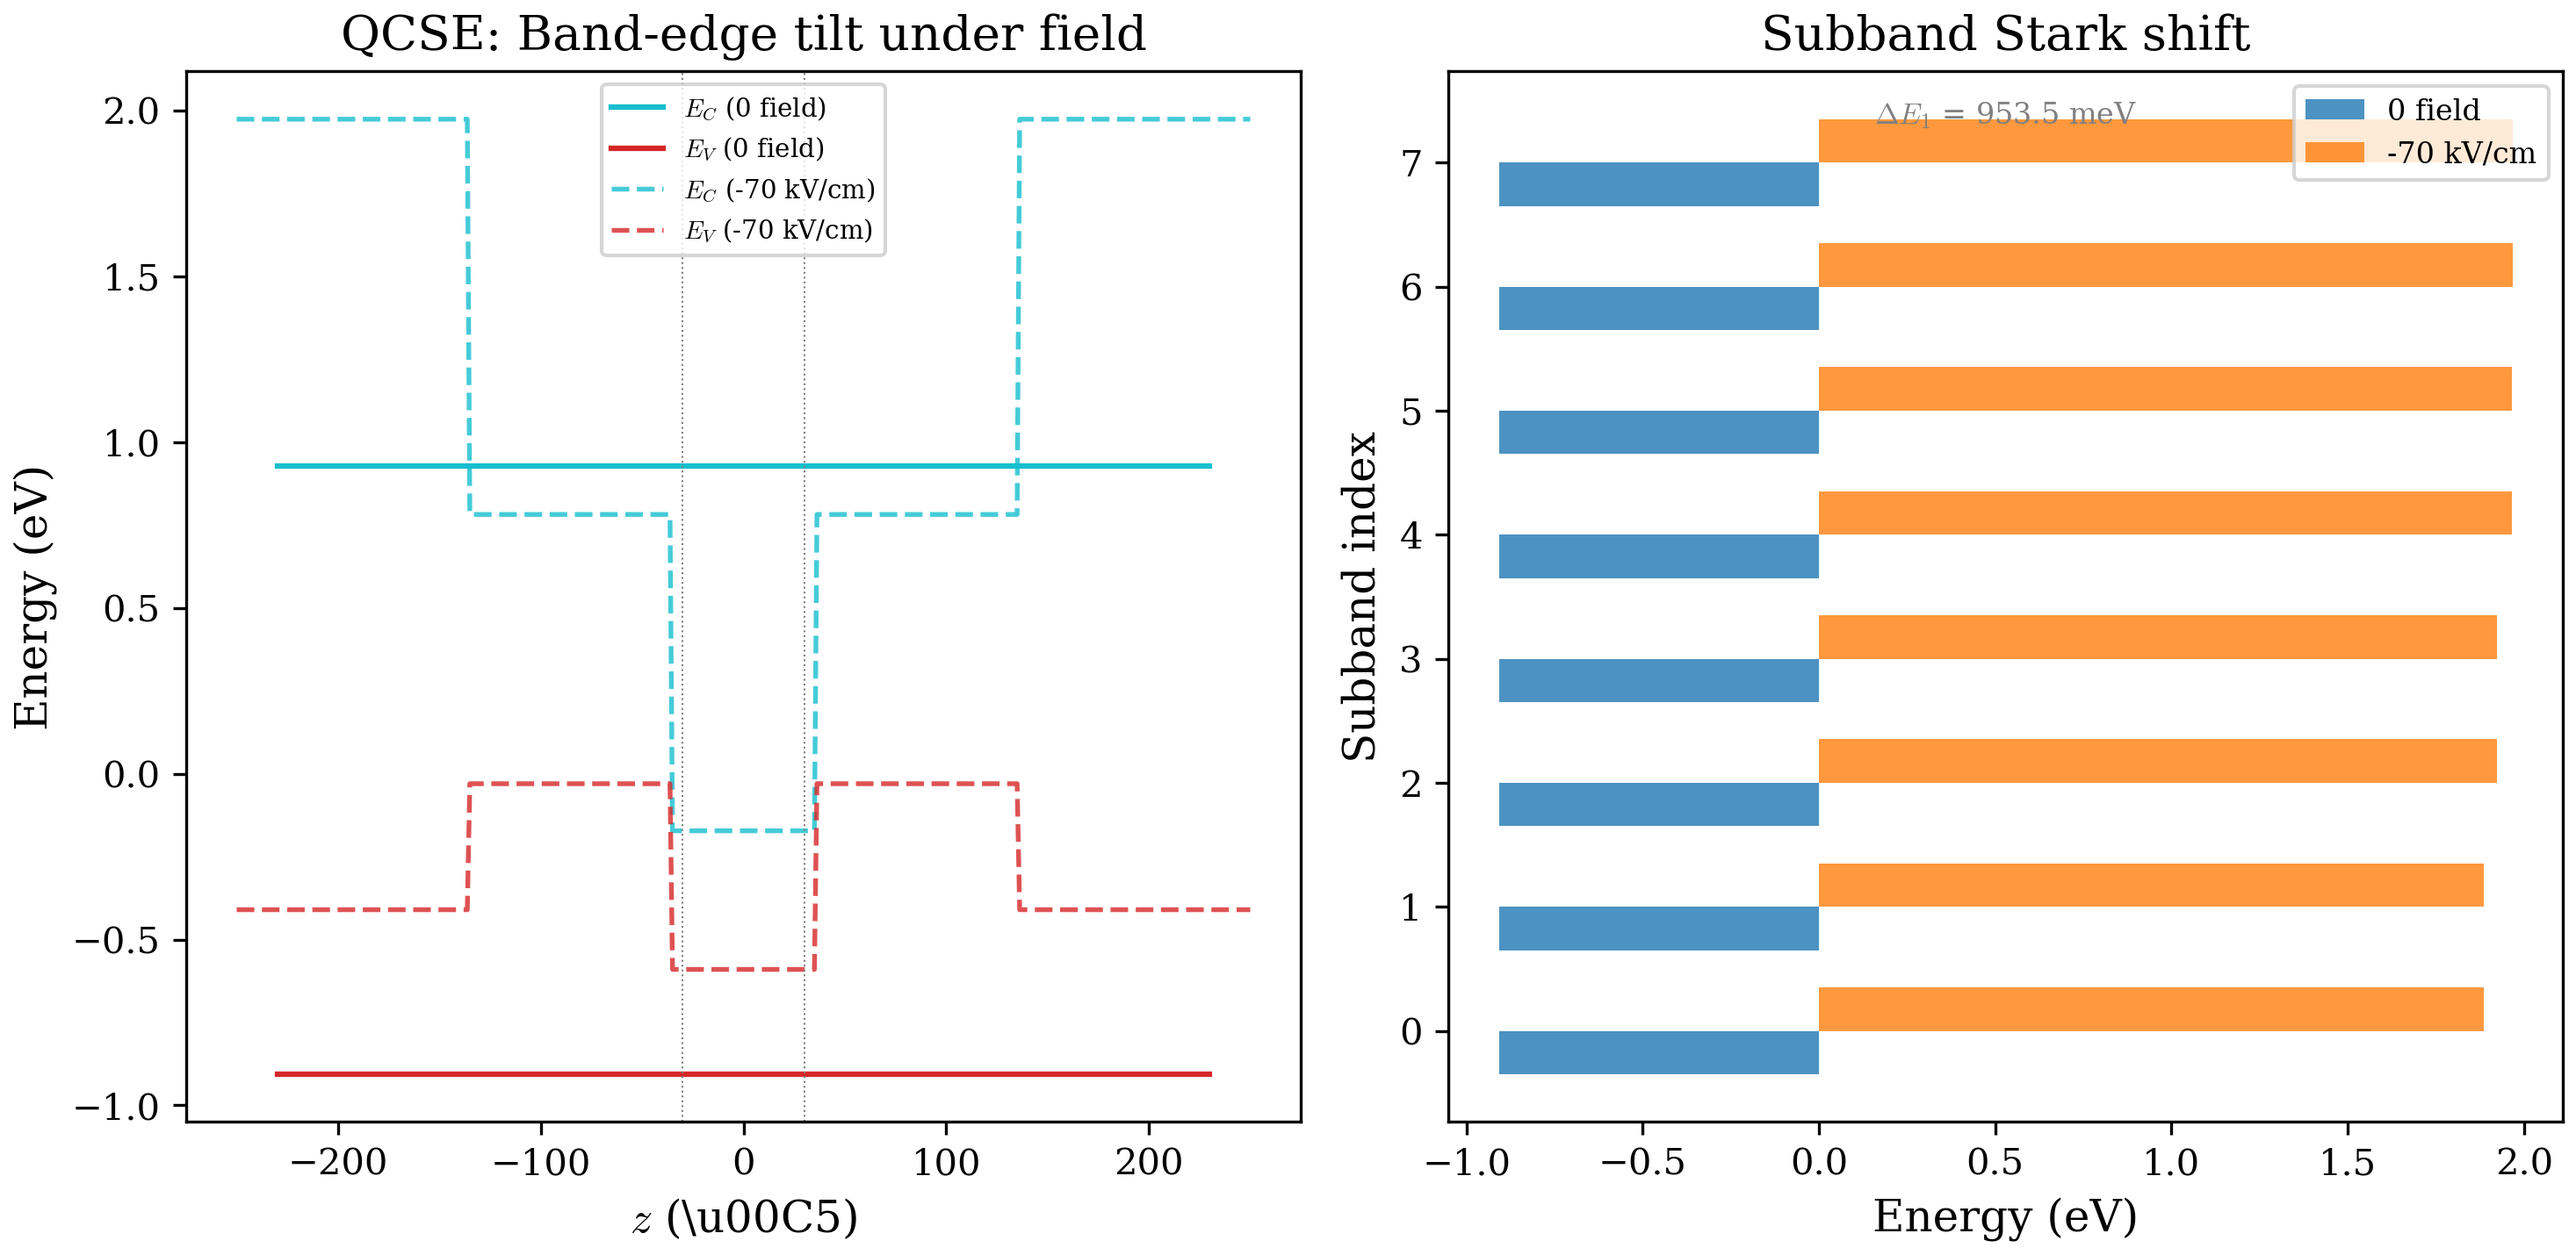
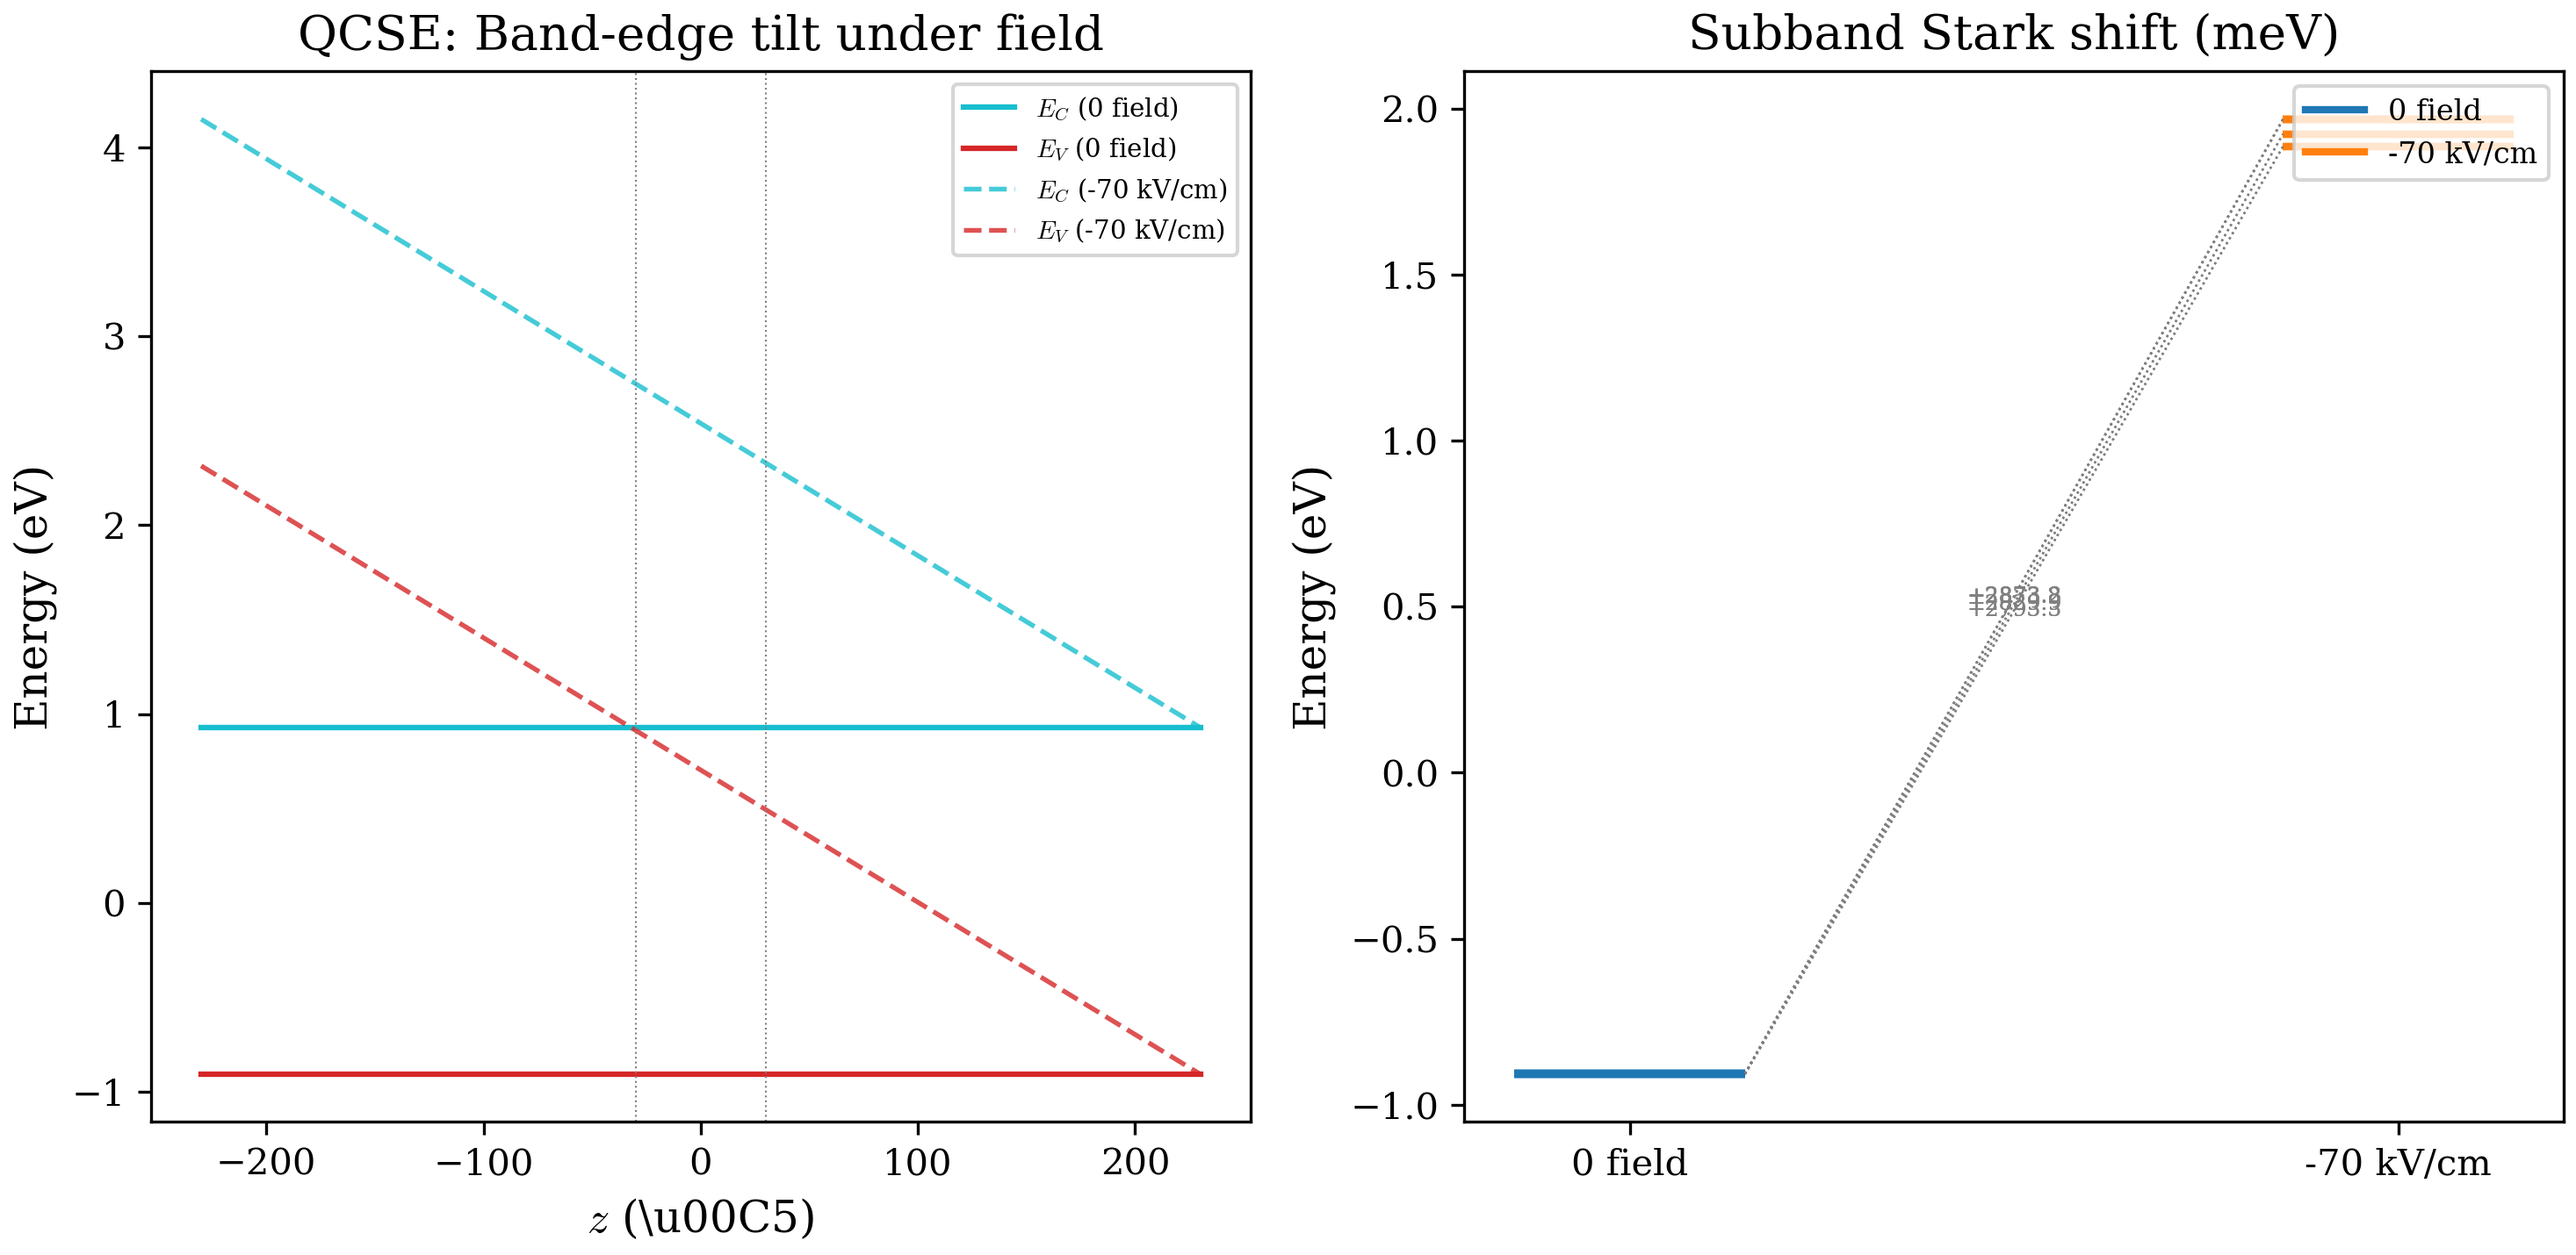
fix: address code review issues in figure generator
- Replace barh with hlines energy level diagram in QCSE Stark shift
- Fix stale dz_list variable in convergence_grid_spacing
- Add returncode checks in fig_bulk_inas_bands, fig_qw_gaas_algaas_subbands, fig_benchmark_inasw_gasbw_broken_gap
- Add FileNotFoundError handling in the same three functions
- Wrap max/min generators in try/except ValueError with fallbacks
- Remove unused variables (EVSO0, EVSO_ef, dz_ref)
- Fix missing space in color assignment

diff --git a/scripts/plotting/generate_all_figures.py b/scripts/plotting/generate_all_figures.py
@@ -430,9 +430,19 @@ def fig_bulk_gaas_bands(output_dir: Path) -> None:
     ax_zoom.axhline(0, color="grey", linewidth=0.4, linestyle="--")
 
     # Annotate band gap and SO splitting
-    e_vb = max(e for e in e0 if e <= 0.01)
-    e_so = min(e for e in e0 if e <= 0.01)
-    e_cb = min(e for e in e0 if e > 0.01)
+    try:
+        e_vb = max(e for e in e0 if e <= 0.01)
+    except ValueError:
+        e_vb = 0.0
+    try:
+        e_so = min(e for e in e0 if e <= 0.01)
+    except ValueError:
+        e_so = e_vb
+    try:
+        e_cb = min(e for e in e0 if e > 0.01)
+    except ValueError:
+        e_cb = max(e0) + 1.0
+
     gap = e_cb - e_vb
     so_split = e_vb - e_so
 
@@ -1244,8 +1254,15 @@ def fig_bulk_inas_bands(output_dir: Path) -> None:
     """bulk_inas_bands.png: 8-band E(k) dispersion from bulk InAs."""
     print("[figure] bulk_inas_bands")
     cfg = CONFIG_DIR / "bulk_inas_kx.cfg"
-    run_executable(EXE_BAND, cfg, REPO_ROOT, label="bulk_inas_kx")
-    k_vals, eig = parse_eigenvalues(output_dir)
+    result = run_executable(EXE_BAND, cfg, REPO_ROOT, label="bulk_inas_kx")
+    if result.returncode != 0:
+        print("  WARNING: bulk_inas_kx run failed, skipping.")
+        return
+    try:
+        k_vals, eig = parse_eigenvalues(output_dir)
+    except FileNotFoundError:
+        print("  WARNING: eigenvalues.dat not found for bulk InAs, skipping.")
+        return
 
     fig, (ax_full, ax_zoom) = plt.subplots(1, 2, figsize=(9.5, 4.5),
                                             gridspec_kw={"width_ratios": [1.2, 1]})
@@ -1279,9 +1296,19 @@ def fig_bulk_inas_bands(output_dir: Path) -> None:
     ax_zoom.axhline(0, color="grey", linewidth=0.4, linestyle="--")
 
     # Annotate band gap and SO splitting
-    e_vb = max(e for e in e0 if e <= 0.01)
-    e_so = min(e for e in e0 if e <= 0.01)
-    e_cb = min(e for e in e0 if e > 0.01)
+    try:
+        e_vb = max(e for e in e0 if e <= 0.01)
+    except ValueError:
+        e_vb = 0.0
+    try:
+        e_so = min(e for e in e0 if e <= 0.01)
+    except ValueError:
+        e_so = e_vb
+    try:
+        e_cb = min(e for e in e0 if e > 0.01)
+    except ValueError:
+        e_cb = max(e0) + 1.0
+
     gap = e_cb - e_vb
     so_split = e_vb - e_so
 
@@ -1314,7 +1341,7 @@ def fig_qcse_stark_shift(output_dir: Path) -> None:
         print("  WARNING: zero-field QCSE run failed, skipping.")
         return
     try:
-        z0, EV0, EVSO0, EC0 = parse_potential_profile(output_dir)
+        z0, EV0, _, EC0 = parse_potential_profile(output_dir)
     except FileNotFoundError:
         print("  WARNING: potential_profile.dat not found for zero field, skipping.")
         return
@@ -1332,7 +1359,7 @@ def fig_qcse_stark_shift(output_dir: Path) -> None:
         print("  WARNING: electric-field QCSE run failed, skipping.")
         return
     try:
-        z_ef, EV_ef, EVSO_ef, EC_ef = parse_potential_profile(output_dir)
+        z_ef, EV_ef, _, EC_ef = parse_potential_profile(output_dir)
     except FileNotFoundError:
         print("  WARNING: potential_profile.dat not found for e-field, skipping.")
         return
@@ -1359,30 +1386,47 @@ def fig_qcse_stark_shift(output_dir: Path) -> None:
     ax_left.set_title("QCSE: Band-edge tilt under field")
     ax_left.legend(loc="best", fontsize=7)
 
-    # Right panel: subband energy levels
+    # Right panel: energy level diagram with horizontal lines
     if e0_vals is not None and ef_vals is not None:
         n_show = min(len(e0_vals), len(ef_vals), 8)
-        y_pos = np.arange(n_show)
-        bar_width = 0.35
-        ax_right.barh(y_pos - bar_width / 2, e0_vals[:n_show], bar_width,
-                     color="#1f77b4", alpha=0.8, label="0 field")
-        ax_right.barh(y_pos + bar_width / 2, ef_vals[:n_show], bar_width,
-                     color="#ff7f0e", alpha=0.8, label="-70 kV/cm")
-        ax_right.set_ylabel("Subband index")
-        ax_right.set_xlabel("Energy (eV)")
-        ax_right.set_title("Subband Stark shift")
-        ax_right.legend(loc="best", fontsize=8)
+        col_zero = 1
+        col_field = 2
+        line_len = 0.3
+        for i in range(n_show):
+            # 0-field level
+            ax_right.hlines(e0_vals[i], col_zero - line_len / 2,
+                           col_zero + line_len / 2,
+                           colors="#1f77b4", linewidth=2.0)
+            # With-field level
+            ax_right.hlines(ef_vals[i], col_field - line_len / 2,
+                           col_field + line_len / 2,
+                           colors="#ff7f0e", linewidth=2.0)
+            # Annotate Stark shift (delta_E) between the pair
+            delta_e = ef_vals[i] - e0_vals[i]
+            if abs(delta_e) > 1e-6:
+                mid_e = (e0_vals[i] + ef_vals[i]) / 2
+                ax_right.annotate(f"{delta_e*1000:+.1f}",
+                                xy=((col_zero + col_field) / 2, mid_e),
+                                fontsize=6, color="grey", ha="center",
+                                va="center")
+                # Dotted connector between the two levels
+                ax_right.plot([col_zero + line_len / 2, col_field - line_len / 2],
+                             [e0_vals[i], ef_vals[i]],
+                             ":", color="grey", linewidth=0.6)
 
-        # Annotate Stark shift for first CB subband
-        if len(e0_vals) > 0 and len(ef_vals) > 0:
-            # Find first CB state (positive energy)
-            cb_zero = [e for e in e0_vals if e > 0.5]
-            cb_field = [e for e in ef_vals if e > 0.3]
-            if cb_zero and cb_field:
-                shift = cb_field[0] - cb_zero[0]
-                ax_right.annotate(f"$\\Delta E_1$ = {shift*1000:.1f} meV",
-                                xy=(0.5, 0.95), xycoords="axes fraction",
-                                fontsize=8, color="grey", ha="center")
+        # Column labels
+        ax_right.set_xticks([col_zero, col_field])
+        ax_right.set_xticklabels(["0 field", "-70 kV/cm"])
+        ax_right.set_ylabel("Energy (eV)")
+        ax_right.set_title("Subband Stark shift (meV)")
+
+        # Manual legend via proxy artists
+        from matplotlib.lines import Line2D
+        legend_elements = [
+            Line2D([0], [0], color="#1f77b4", linewidth=2, label="0 field"),
+            Line2D([0], [0], color="#ff7f0e", linewidth=2, label="-70 kV/cm"),
+        ]
+        ax_right.legend(handles=legend_elements, loc="best", fontsize=8)
     else:
         ax_right.text(0.5, 0.5, "No eigenvalue data", transform=ax_right.transAxes,
                      ha="center", va="center")
@@ -1397,8 +1441,15 @@ def fig_qw_gaas_algaas_subbands(output_dir: Path) -> None:
     """qw_gaas_algaas_subbands.png: Type-I GaAs/AlGaAs QW E(k_parallel) subbands."""
     print("[figure] qw_gaas_algaas_subbands")
     cfg = REPO_ROOT / "docs" / "benchmarks" / "qw_gaas_algaas.cfg"
-    run_executable(EXE_BAND, cfg, REPO_ROOT, label="qw_gaas_algaas")
-    k_vals, eig = parse_eigenvalues(output_dir)
+    result = run_executable(EXE_BAND, cfg, REPO_ROOT, label="qw_gaas_algaas")
+    if result.returncode != 0:
+        print("  WARNING: qw_gaas_algaas run failed, skipping.")
+        return
+    try:
+        k_vals, eig = parse_eigenvalues(output_dir)
+    except FileNotFoundError:
+        print("  WARNING: eigenvalues.dat not found for GaAs/AlGaAs QW, skipping.")
+        return
 
     fig, ax = plt.subplots(figsize=(6, 5))
     n_bands = eig.shape[0]
@@ -1419,8 +1470,14 @@ def fig_qw_gaas_algaas_subbands(output_dir: Path) -> None:
 
     # Annotate VB top and CB bottom
     e0 = eig[:, 0]
-    e_vb = max(e for e in e0 if e <= 0.01)
-    e_cb = min(e for e in e0 if e > 0.01)
+    try:
+        e_vb = max(e for e in e0 if e <= 0.01)
+    except ValueError:
+        e_vb = 0.0
+    try:
+        e_cb = min(e for e in e0 if e > 0.01)
+    except ValueError:
+        e_cb = max(e0) + 1.0
     gap = e_cb - e_vb
     ax.annotate(f"Gap = {gap*1000:.1f} meV", xy=(k_vals[-1] * 0.6, (e_vb + e_cb) / 2),
                fontsize=8, color="grey", ha="center")
@@ -1505,25 +1562,26 @@ def fig_convergence_grid_spacing(output_dir: Path) -> None:
     steps_sorted = sorted(energies_at_gamma.keys())
     ref_step = max(steps_sorted)
     ref_e = energies_at_gamma[ref_step]
-    dz_ref = dz_values[ref_step]
 
     for band_idx in range(min(ref_e.shape[0], 8)):
         diffs = []
-        dz_list = []
+        dz_plot = []
         for step in steps_sorted:
             if step == ref_step:
                 continue
             e = energies_at_gamma[step]
             if band_idx < e.shape[0]:
                 diffs.append(abs(e[band_idx] - ref_e[band_idx]))
-                dz_list.append(dz_values[step])
-        if len(dz_list) >= 2:
-            ax.loglog(dz_list, diffs, "o-", linewidth=1.2, markersize=5,
+                dz_plot.append(dz_values[step])
+        if len(dz_plot) >= 2:
+            ax.loglog(dz_plot, diffs, "o-", linewidth=1.2, markersize=5,
                      label=f"Band {band_idx + 1}", color=BAND_COLORS[band_idx])
 
     # Reference slope line (2nd-order convergence: error ~ dz^2)
-    if len(dz_list) >= 2:
-        dz_arr = np.array(sorted(set(dz_list)))
+    # Collect dz values cleanly from non-reference steps
+    all_dz = sorted(dz_values[s] for s in steps_sorted if s != ref_step)
+    if len(all_dz) >= 2:
+        dz_arr = np.array(all_dz)
         # Scale the reference line to pass through the mid-point of first band data
         ref_diffs = []
         ref_dzs = []
@@ -1554,9 +1612,16 @@ def fig_benchmark_inasw_gasbw_broken_gap(output_dir: Path) -> None:
     """benchmark_inasw_gasbw_broken_gap.png: broken-gap QW E(k) subbands."""
     print("[figure] benchmark_inasw_gasbw_broken_gap")
     cfg = CONFIG_DIR / "qw_inasw_gasbw_broken_gap.cfg"
-    run_executable(EXE_BAND, cfg, REPO_ROOT, label="qw_inasw_gasbw_broken_gap",
+    result = run_executable(EXE_BAND, cfg, REPO_ROOT, label="qw_inasw_gasbw_broken_gap",
                   timeout=300)
-    k_vals, eig = parse_eigenvalues(output_dir)
+    if result.returncode != 0:
+        print("  WARNING: broken-gap run failed, skipping.")
+        return
+    try:
+        k_vals, eig = parse_eigenvalues(output_dir)
+    except FileNotFoundError:
+        print("  WARNING: eigenvalues.dat not found for broken-gap QW, skipping.")
+        return
 
     fig, ax = plt.subplots(figsize=(6, 5))
     n_bands = eig.shape[0]
@@ -1567,7 +1632,7 @@ def fig_benchmark_inasw_gasbw_broken_gap(output_dir: Path) -> None:
         if energy_mid > 0.2:
             color = "#17becf"  # CB-like
         elif energy_mid > -0.2:
-            color="#2ca02c"  # near-gap / mixed
+            color = "#2ca02c"  # near-gap / mixed
         else:
             color="#d62728"  # VB-like
         ax.plot(k_vals, eig[i], color=color, linewidth=0.9, alpha=0.85)
